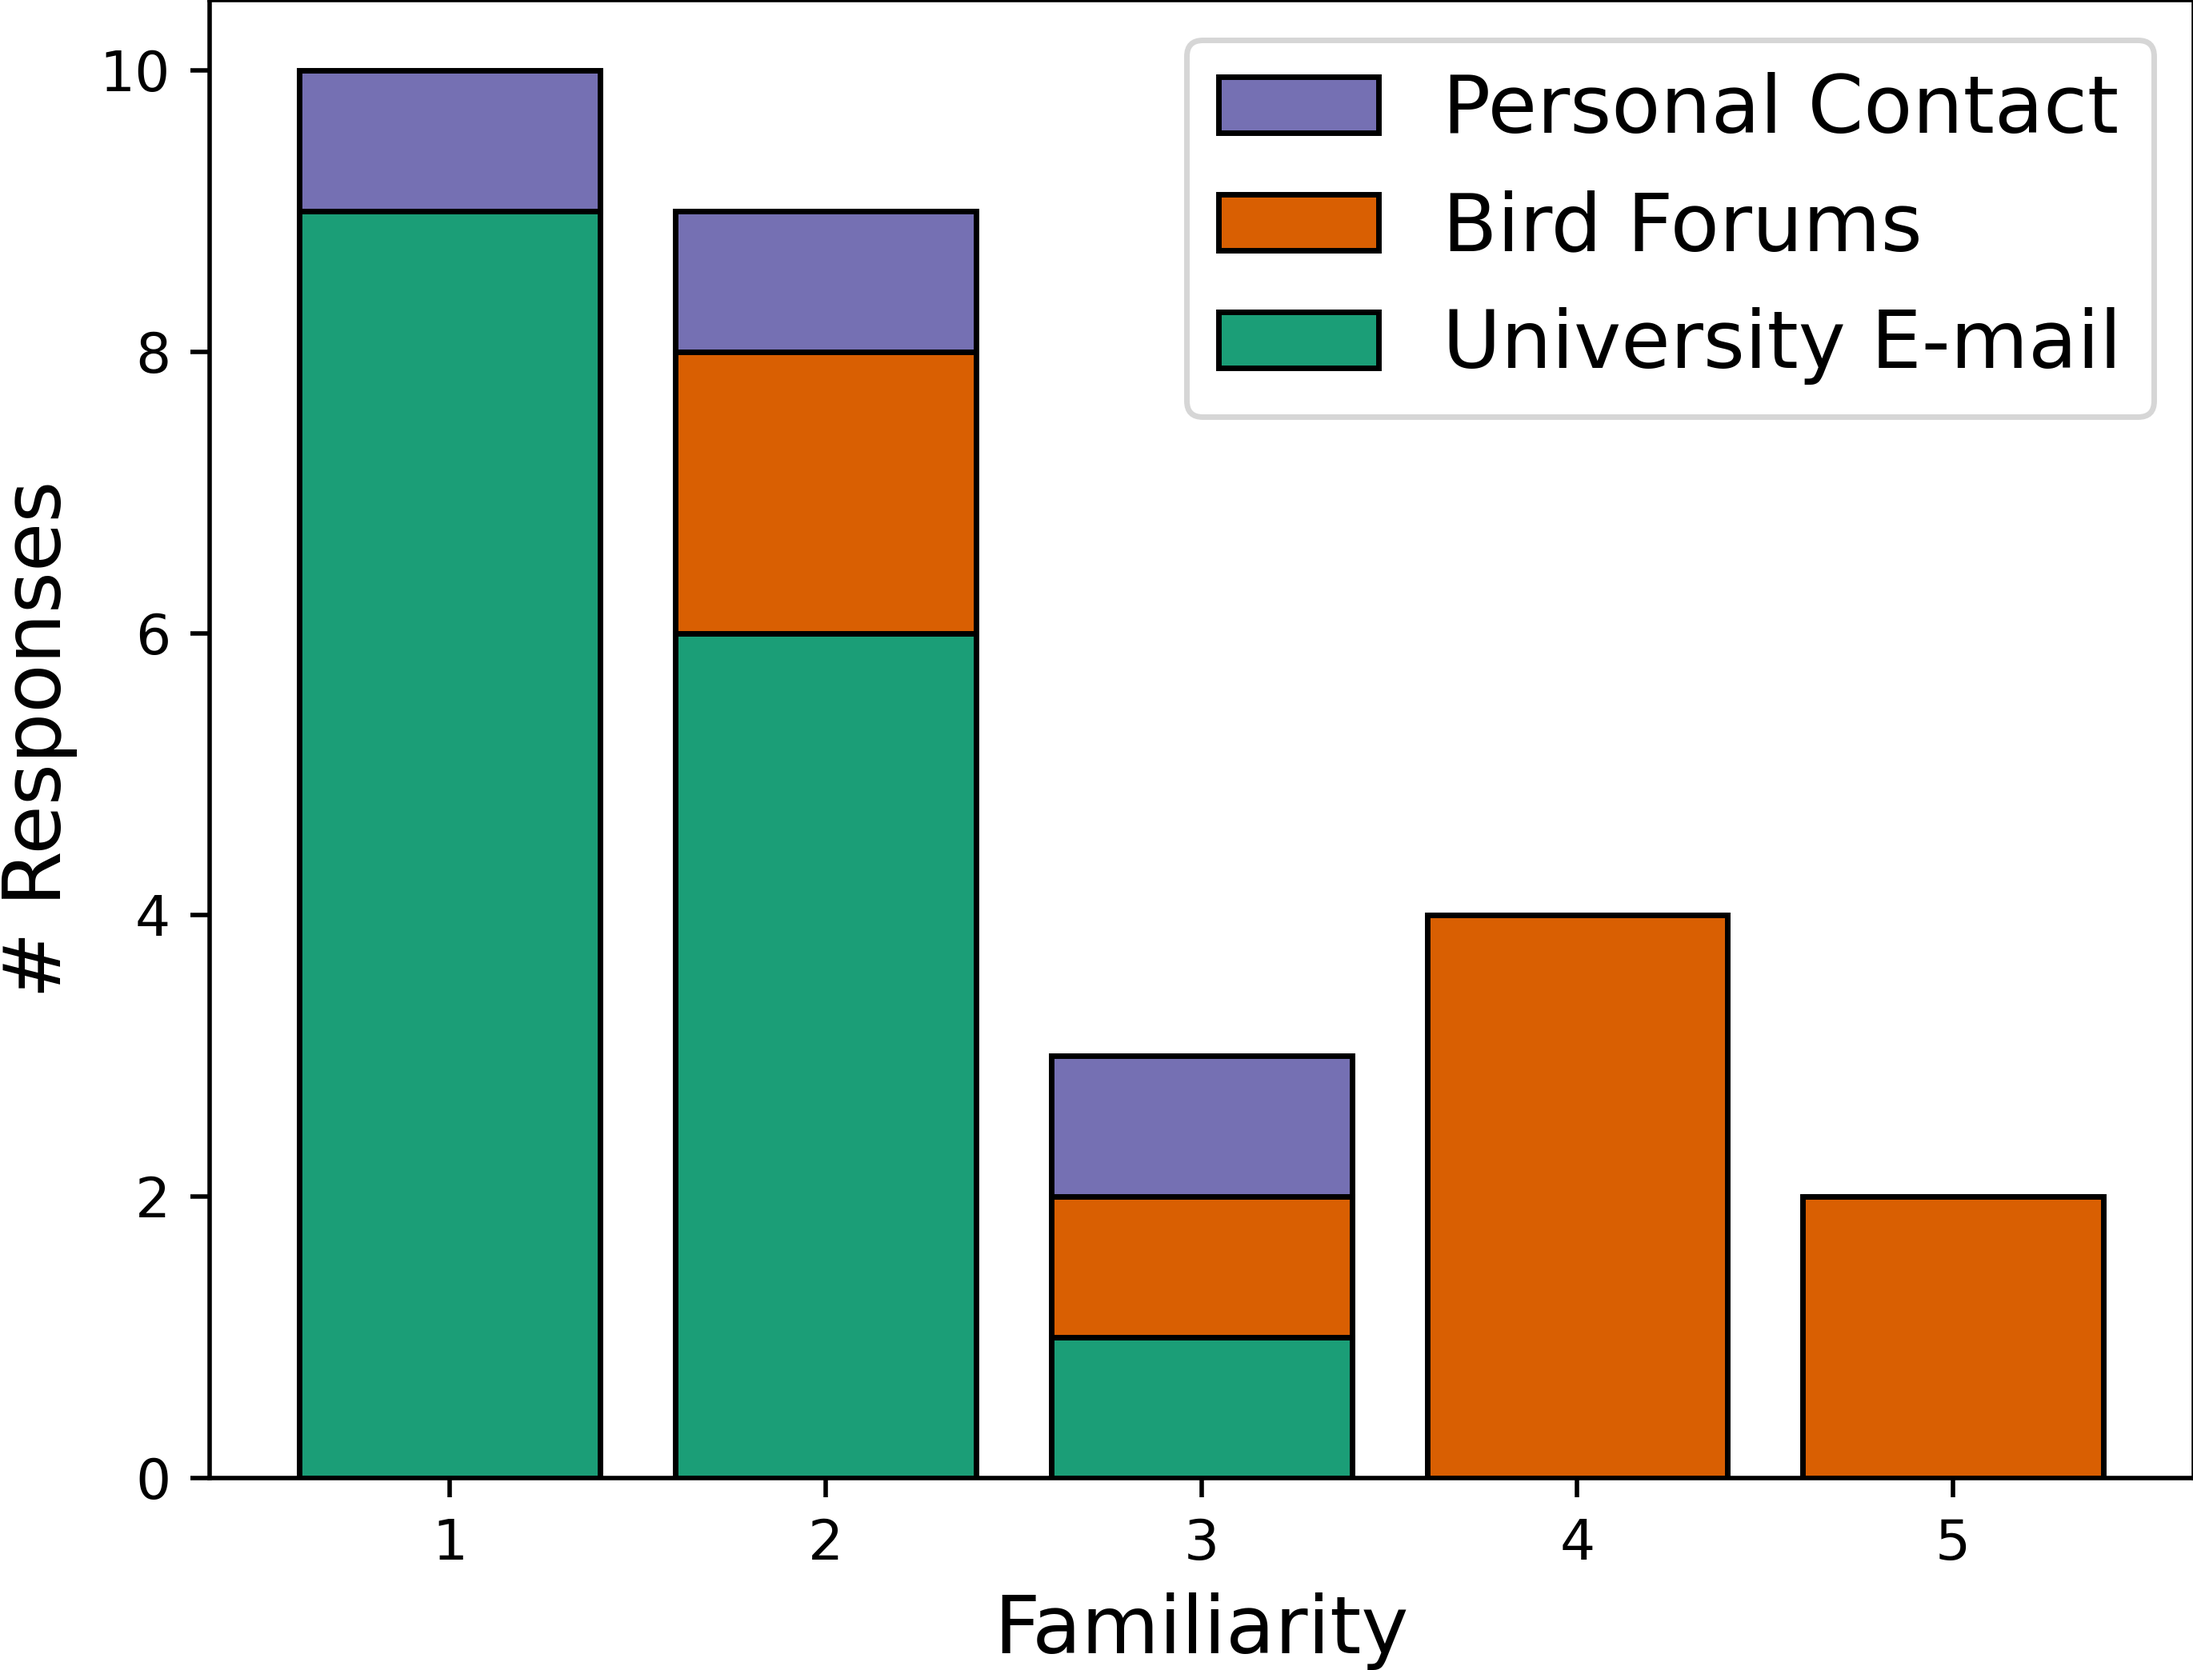
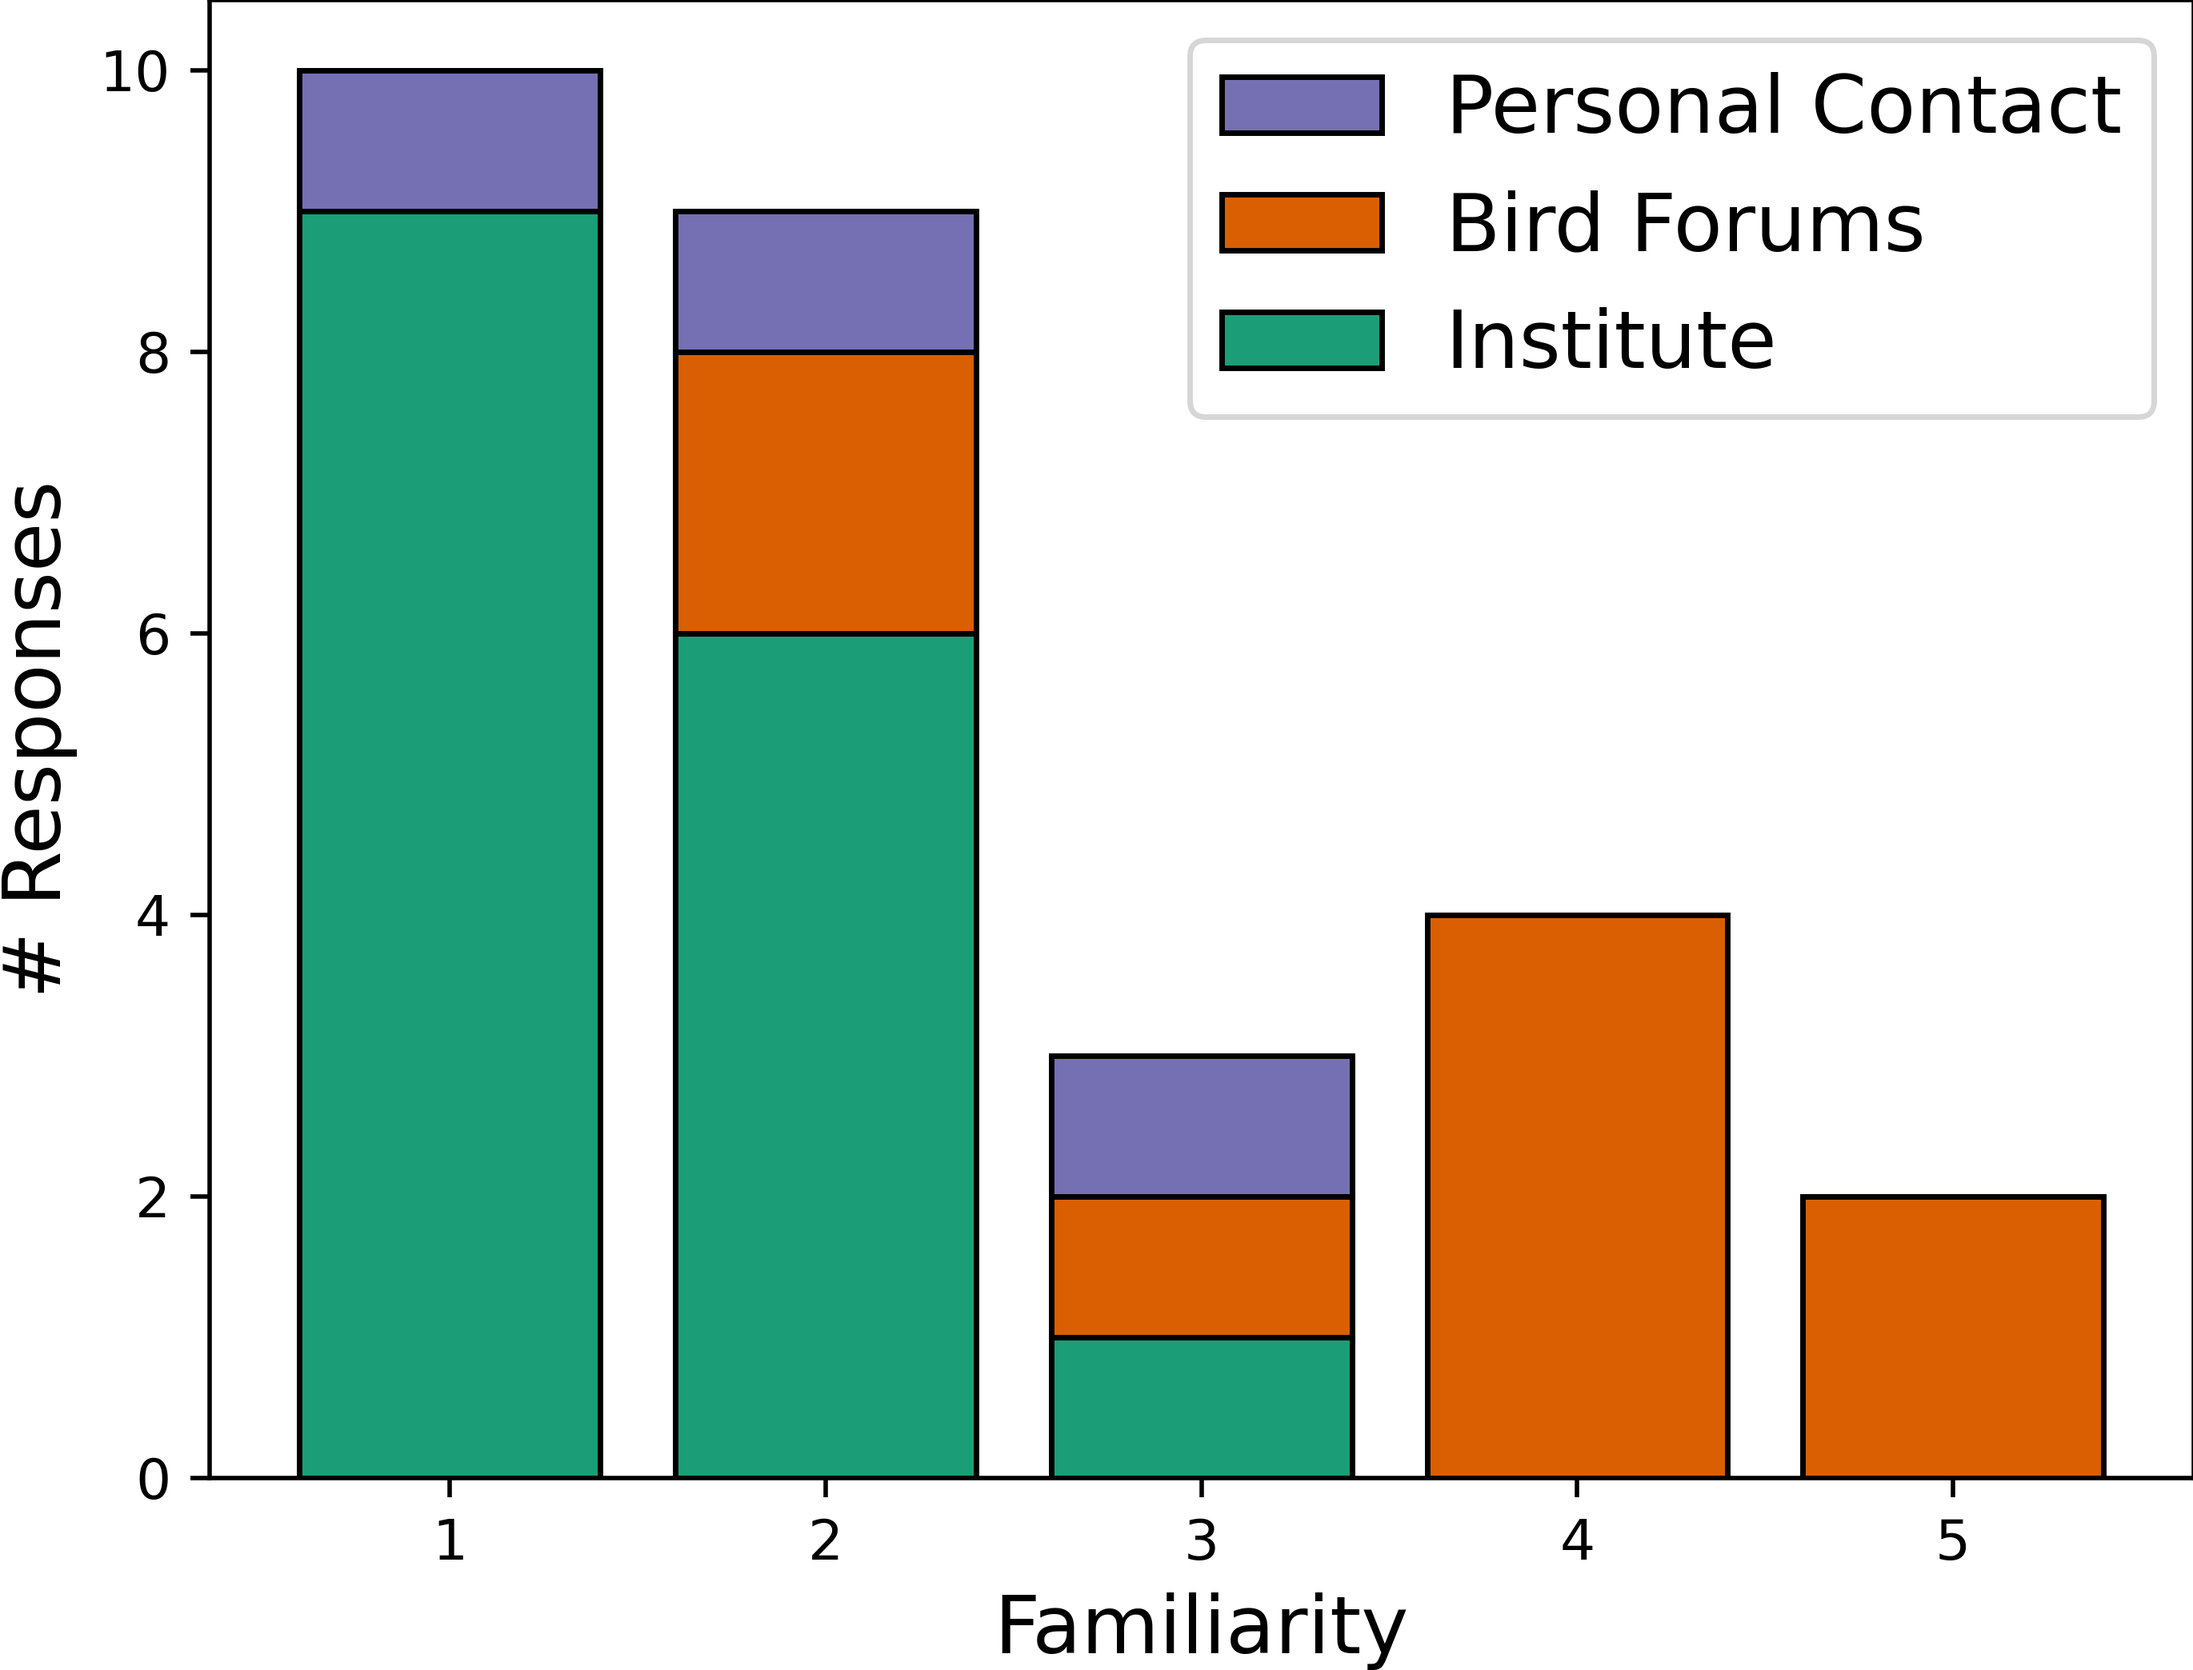
update referral names

diff --git a/study_analysis/study.py b/study_analysis/study.py
@@ -4,7 +4,7 @@ import numpy as np
 from enum import Enum
     
 class Referral(Enum):
-    UNIVERSITY = "University E-mail"
+    UNIVERSITY = "Institute"
     BIOLOGY = "Biology E-mail"
     BIRD_FORUMS = "Bird Forums"
     OTHER = "Other"
